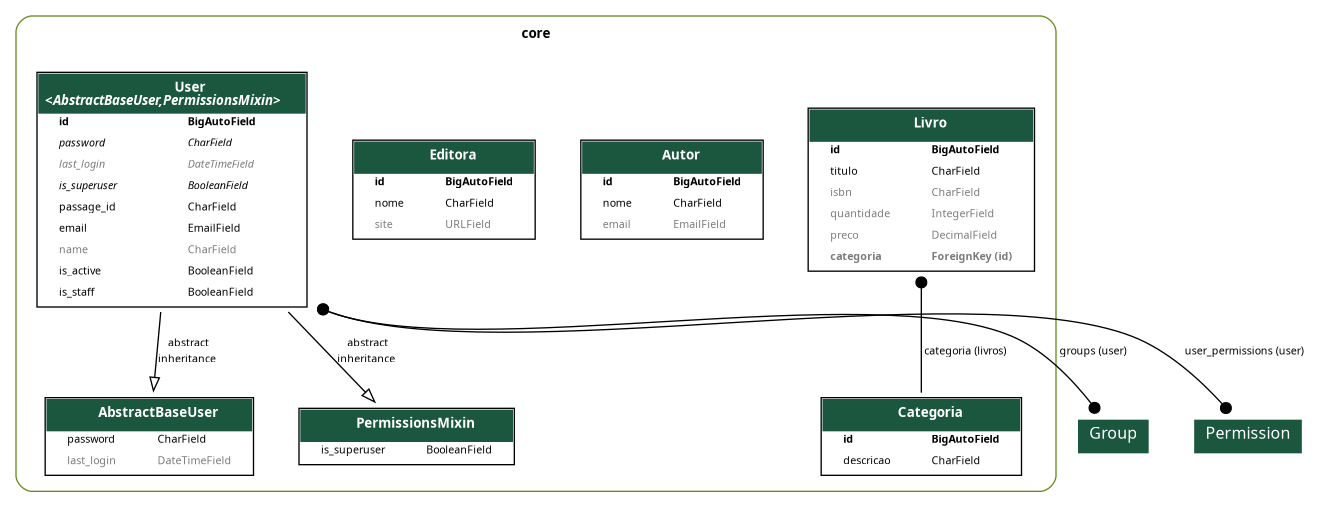
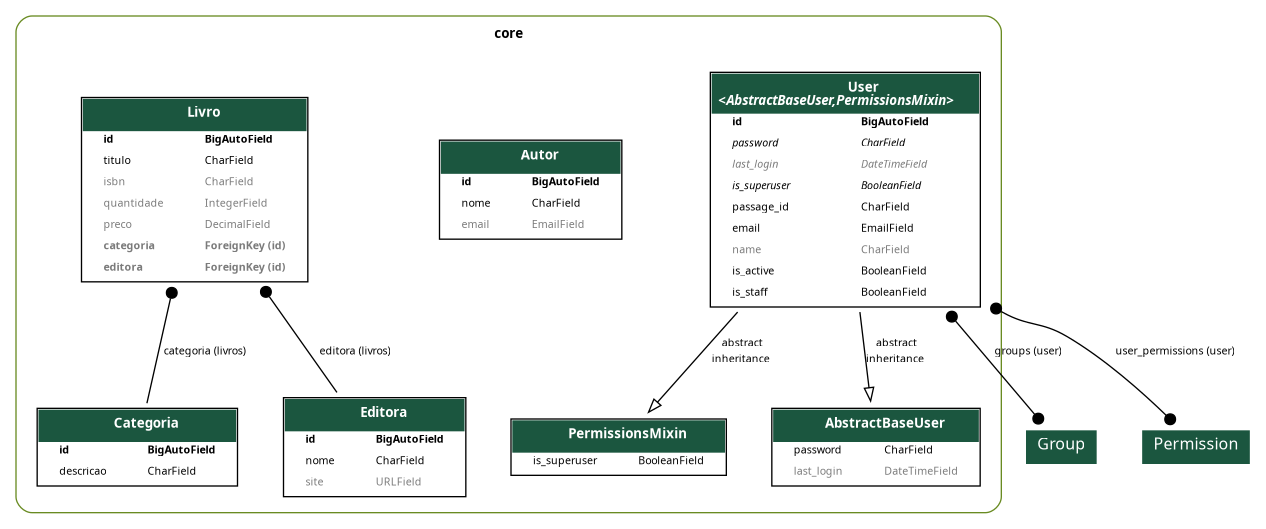
feat: inclusão do relacionamento de Livro com Editora.

diff --git a/core/models/livro.py b/core/models/livro.py
@@ -1,6 +1,7 @@
 from django.db import models
 
 from .categoria import Categoria
+from .editora import Editora
 
 
 class Livro(models.Model):
@@ -9,6 +10,7 @@ class Livro(models.Model):
     quantidade = models.IntegerField(default=0, null=True, blank=True)
     preco = models.DecimalField(max_digits=7, decimal_places=2, default=0, null=True, blank=True)
     categoria = models.ForeignKey(Categoria, on_delete=models.PROTECT, related_name='livros', null=True, blank=True)
+    editora = models.ForeignKey(Editora, on_delete=models.PROTECT, related_name='livros', null=True, blank=True)
 
     def __str__(self):
         return f'({self.id}) {self.titulo} ({self.quantidade})'

diff --git a/core/migrations/0011_livro_editora.py b/core/migrations/0011_livro_editora.py
@@ -1,0 +1,19 @@
+# Generated by Django 5.1.7 on 2025-04-15 19:20
+
+import django.db.models.deletion
+from django.db import migrations, models
+
+
+class Migration(migrations.Migration):
+
+    dependencies = [
+        ('core', '0010_livro_categoria'),
+    ]
+
+    operations = [
+        migrations.AddField(
+            model_name='livro',
+            name='editora',
+            field=models.ForeignKey(blank=True, null=True, on_delete=django.db.models.deletion.PROTECT, related_name='livros', to='core.editora'),
+        ),
+    ]
